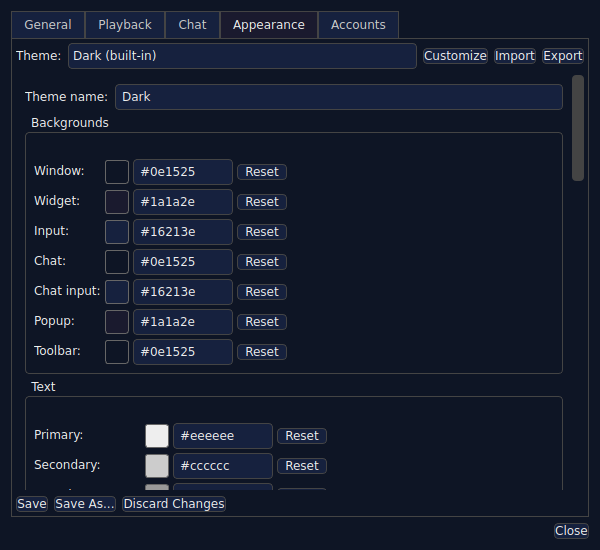
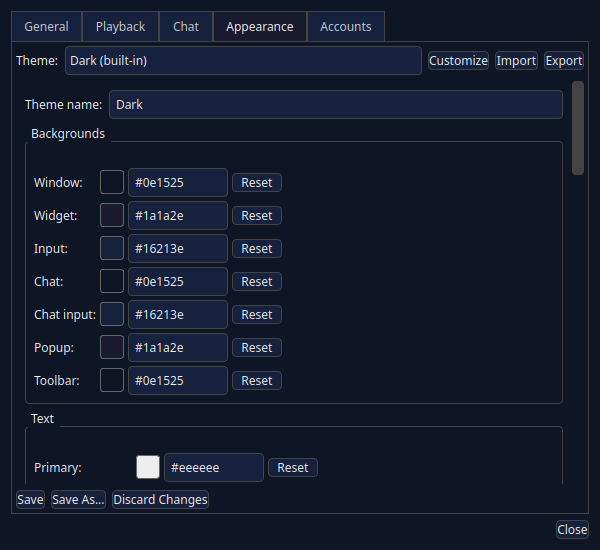
Widen default view screenshots to 700px for proper row layout

Changed region(s): [[0.03, 0.0, 0.99, 0.9891], [0.96, 0.3091, 0.99, 0.34]]

diff --git a/scripts/capture_screenshots.py b/scripts/capture_screenshots.py
@@ -495,7 +495,7 @@ def main():
 
     window = MainWindow(mock_app)
     window._initial_check_complete = True
-    window.resize(540, 700)  # 900 * 0.6 = 540 (40% narrower)
+    window.resize(700, 700)
     window.show()
     window.refresh_stream_list()
     # Force QListView to compute correct sizeHints after initial layout
@@ -530,7 +530,7 @@ def main():
 
         # Reset to default style and size
         settings.ui_style = UIStyle.DEFAULT
-        window.resize(540, 700)
+        window.resize(700, 700)
         if window._stream_delegate:
             window._stream_delegate.invalidate_size_cache()
         window.stream_list.scheduleDelayedItemsLayout()
